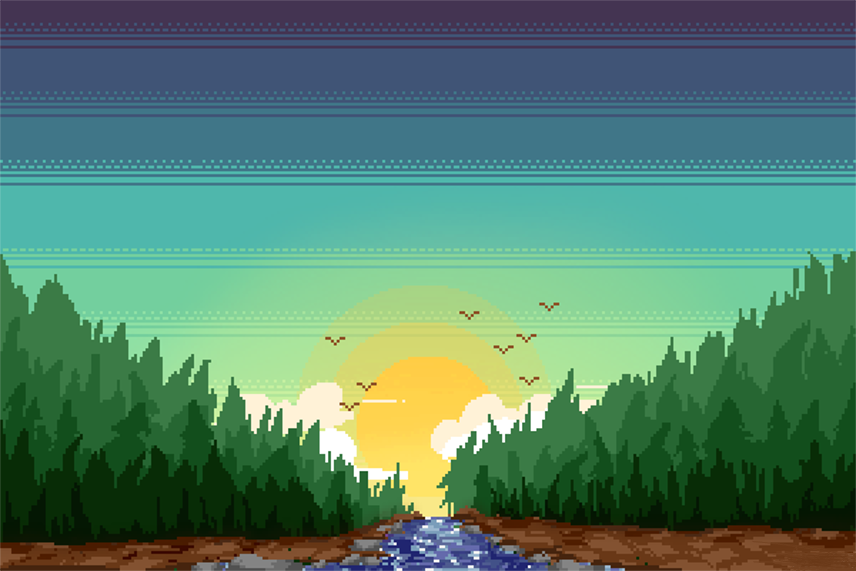
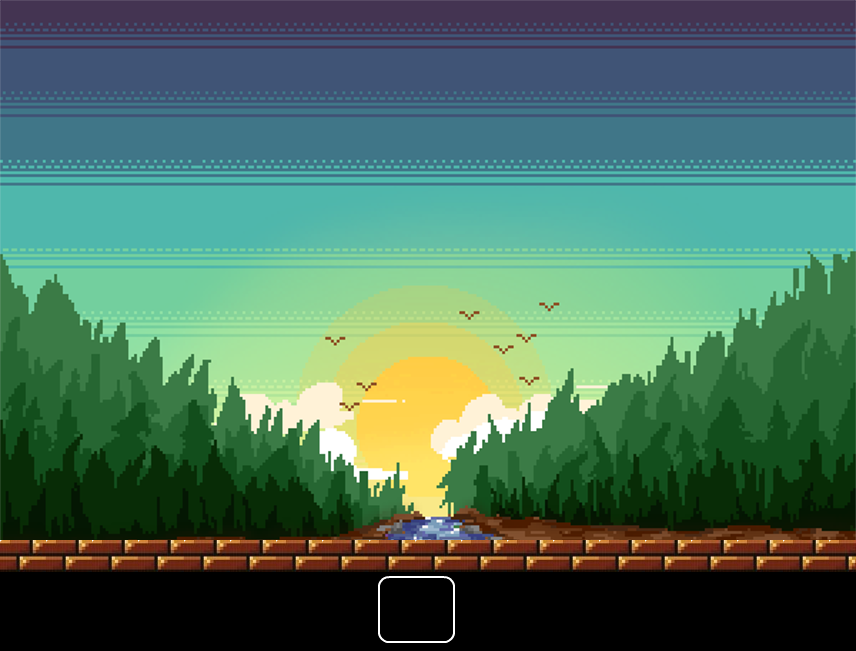
Modificación del mapa, blocke de arma y reloj

diff --git a/src/mapanel/Mapcanvas.java b/src/mapanel/Mapcanvas.java
@@ -6,12 +6,15 @@ import java.awt.event.KeyEvent;
 import java.awt.event.KeyListener;
 import java.awt.image.BufferStrategy;
 import java.net.URL;
+import java.util.Timer;
 
 public class Mapcanvas extends Canvas implements Runnable,KeyListener {
+    private Clock clk;
     private Image imgBgd;
     private URL urlimgBgd;
     private Boolean start = true;
-    private static int widthC = 853, heightC = 571;
+    private Boolean boclock=false;
+    private static int widthC = 853, heightC = 651;
     private int titbl = 2;
 
     public Mapcanvas() {
@@ -47,7 +50,11 @@ public class Mapcanvas extends Canvas implements Runnable,KeyListener {
 
         // Pintamos el fondo
         gr2D.drawImage(imgBgd, 0, 0, this);
-
+        if(boclock) {
+            gr2D.setColor(Color.WHITE);cd
+            gr2D.setFont(new Font("Times New Roman",Font.BOLD,40));
+            gr2D.drawString("TIME:"+String.valueOf(clk.getSegundos()), 30, 625);
+        }
         bs.show();
         gr2D.dispose();
     }
@@ -55,6 +62,9 @@ public class Mapcanvas extends Canvas implements Runnable,KeyListener {
     private void startGame() {
         urlimgBgd = this.getClass().getResource("images/lv1.png");
         imgBgd = new ImageIcon(urlimgBgd).getImage();
+        boclock = true;
+        clk =new Clock(121,true);
+        new Thread(clk).start();
     }
 
     private void mapLvs(int cod) {
@@ -117,6 +127,7 @@ public class Mapcanvas extends Canvas implements Runnable,KeyListener {
                 }
             }
         } catch (Exception e) {
+            e.getMessage();
         }
         
         try {

diff --git a/src/mapanel/Clock.java b/src/mapanel/Clock.java
@@ -1,0 +1,50 @@
+package mapanel;
+
+import java.util.Timer;
+import java.util.TimerTask;
+
+public class Clock implements Runnable {
+    public int segundos;//manejar el valor del contador
+    public boolean stp; //manejar el estado del contador
+
+
+
+    public Clock(int segundos, boolean stp) {
+        this.segundos = segundos;
+        this.stp = stp;
+    }
+
+    public void iniClock(){
+        stp = false;
+    }
+
+    public void iniStop(){
+        stp = true;
+    }
+
+    public void iniReset(){
+        stp= true;
+        segundos = 120;
+    }
+
+    public int getSegundos() {
+        return segundos;
+    }
+
+    @Override
+    public void run() {
+        while (true) {
+            try {
+                if (stp==false || segundos != 0) {
+                    segundos--;
+                    //lblTime.setText(String.valueOf(segundos));
+                    //System.out.println(String.valueOf(segundos));
+                    Thread.sleep(1000);
+                }
+            }catch (Exception e){
+                e.getMessage();
+            }
+
+        }
+    }
+}

diff --git a/src/pang2d/Space.java b/src/pang2d/Space.java
@@ -16,7 +16,7 @@ public class Space extends JFrame {
     }
     private void initMap(){
         Container panel;
-        setBounds(0,0,853,571);
+        setBounds(0,0,853,680);
         setTitle("Pang Vrs. DAM");
         setResizable(false);
         setDefaultCloseOperation(JFrame.EXIT_ON_CLOSE);
